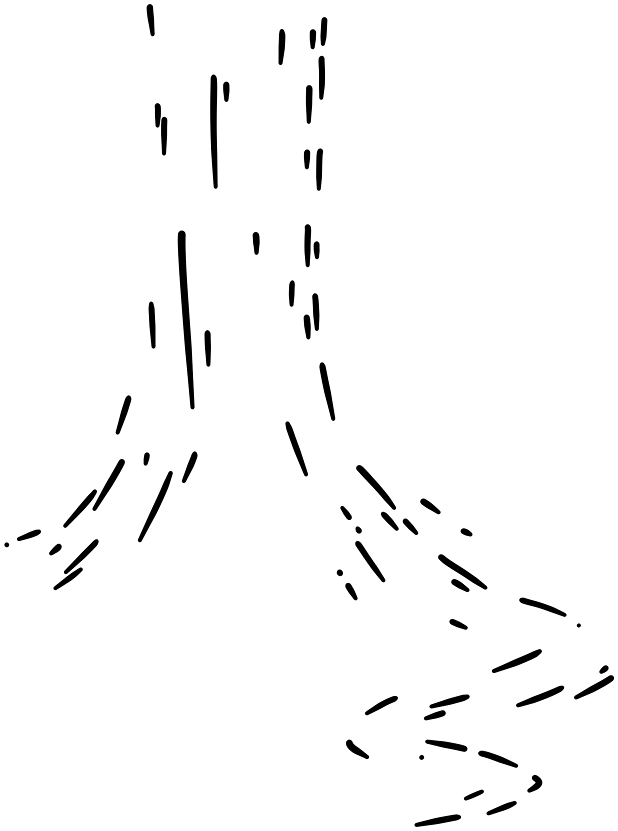
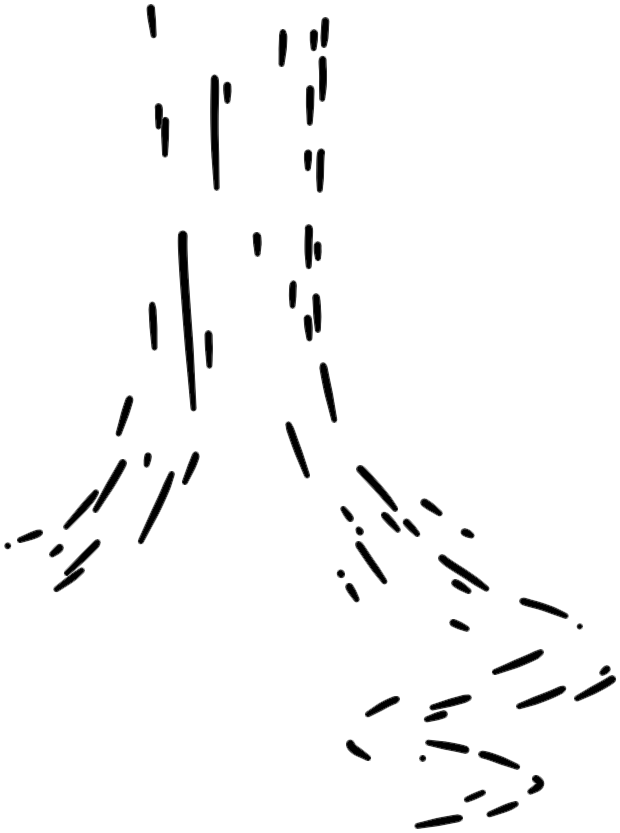
Laboratorio de Sid: el árbol más grande y con un trazo más grueso, como el de Sid
La línea de sus piezas se engrosa al convertirlas; el árbol es más grande y
está algo más al fondo para que su copa entre, y se colorea cuando Sid pasa
por delante.

Claude-Session: https://claude.ai/code/session_01WTSfarsaRbQ4zQwAYYhqZ8

diff --git a/src/lab/sidWorld.js b/src/lab/sidWorld.js
@@ -43,7 +43,7 @@ function tint(name, colour) {
 }
 // Her tree: where it stands in his world (x, depth), how big, and where its foot is in her drawing (scaled): the foot of
 // the little mushrooms in the middle, between its roots, which sit on the ground (its roots spread over it, towards us)
-const TREE = { x: 1900, d: 320, scale: 0.7, foot: { x: 640, y: 1358 } };
+const TREE = { x: 2000, d: 470, scale: 0.9, foot: { x: 640, y: 1358 } };   // (big, and further back so its crown fits)
 // The pieces spread over the world, how often each comes, what colour it takes, and whether it sways
 const SCATTER = [
     { name: 'fern', weight: 3, sway: 0.5, colour: 'green' }, { name: 'fernSmall', weight: 3, sway: 0.6, colour: 'green' },
@@ -173,7 +173,7 @@ export function createWorld({ depth, clouds = null, moon = null }) {
                 const dx = item.x - sid.x, dd = (item.d - sid.d) * 1.6, dist = Math.hypot(dx, dd);
                 // colour: as he walks by, and inside the wave while he sits
                 let c = colour.get(item.id) ?? 0;
-                const near = item.kind === 'tree' ? 620 : 170;
+                const near = item.kind === 'tree' ? 950 : 170;
                 if (dist < near) c = Math.min(1, c + dt * 0.9 * (1 - dist / near) * 2);
                 if (ripple && Math.hypot(item.x - ripple.x, (item.d - ripple.d) * 1.6) < ripple.r) c = Math.min(1, c + dt * 1.4);
                 if (c > 0) colour.set(item.id, c);
